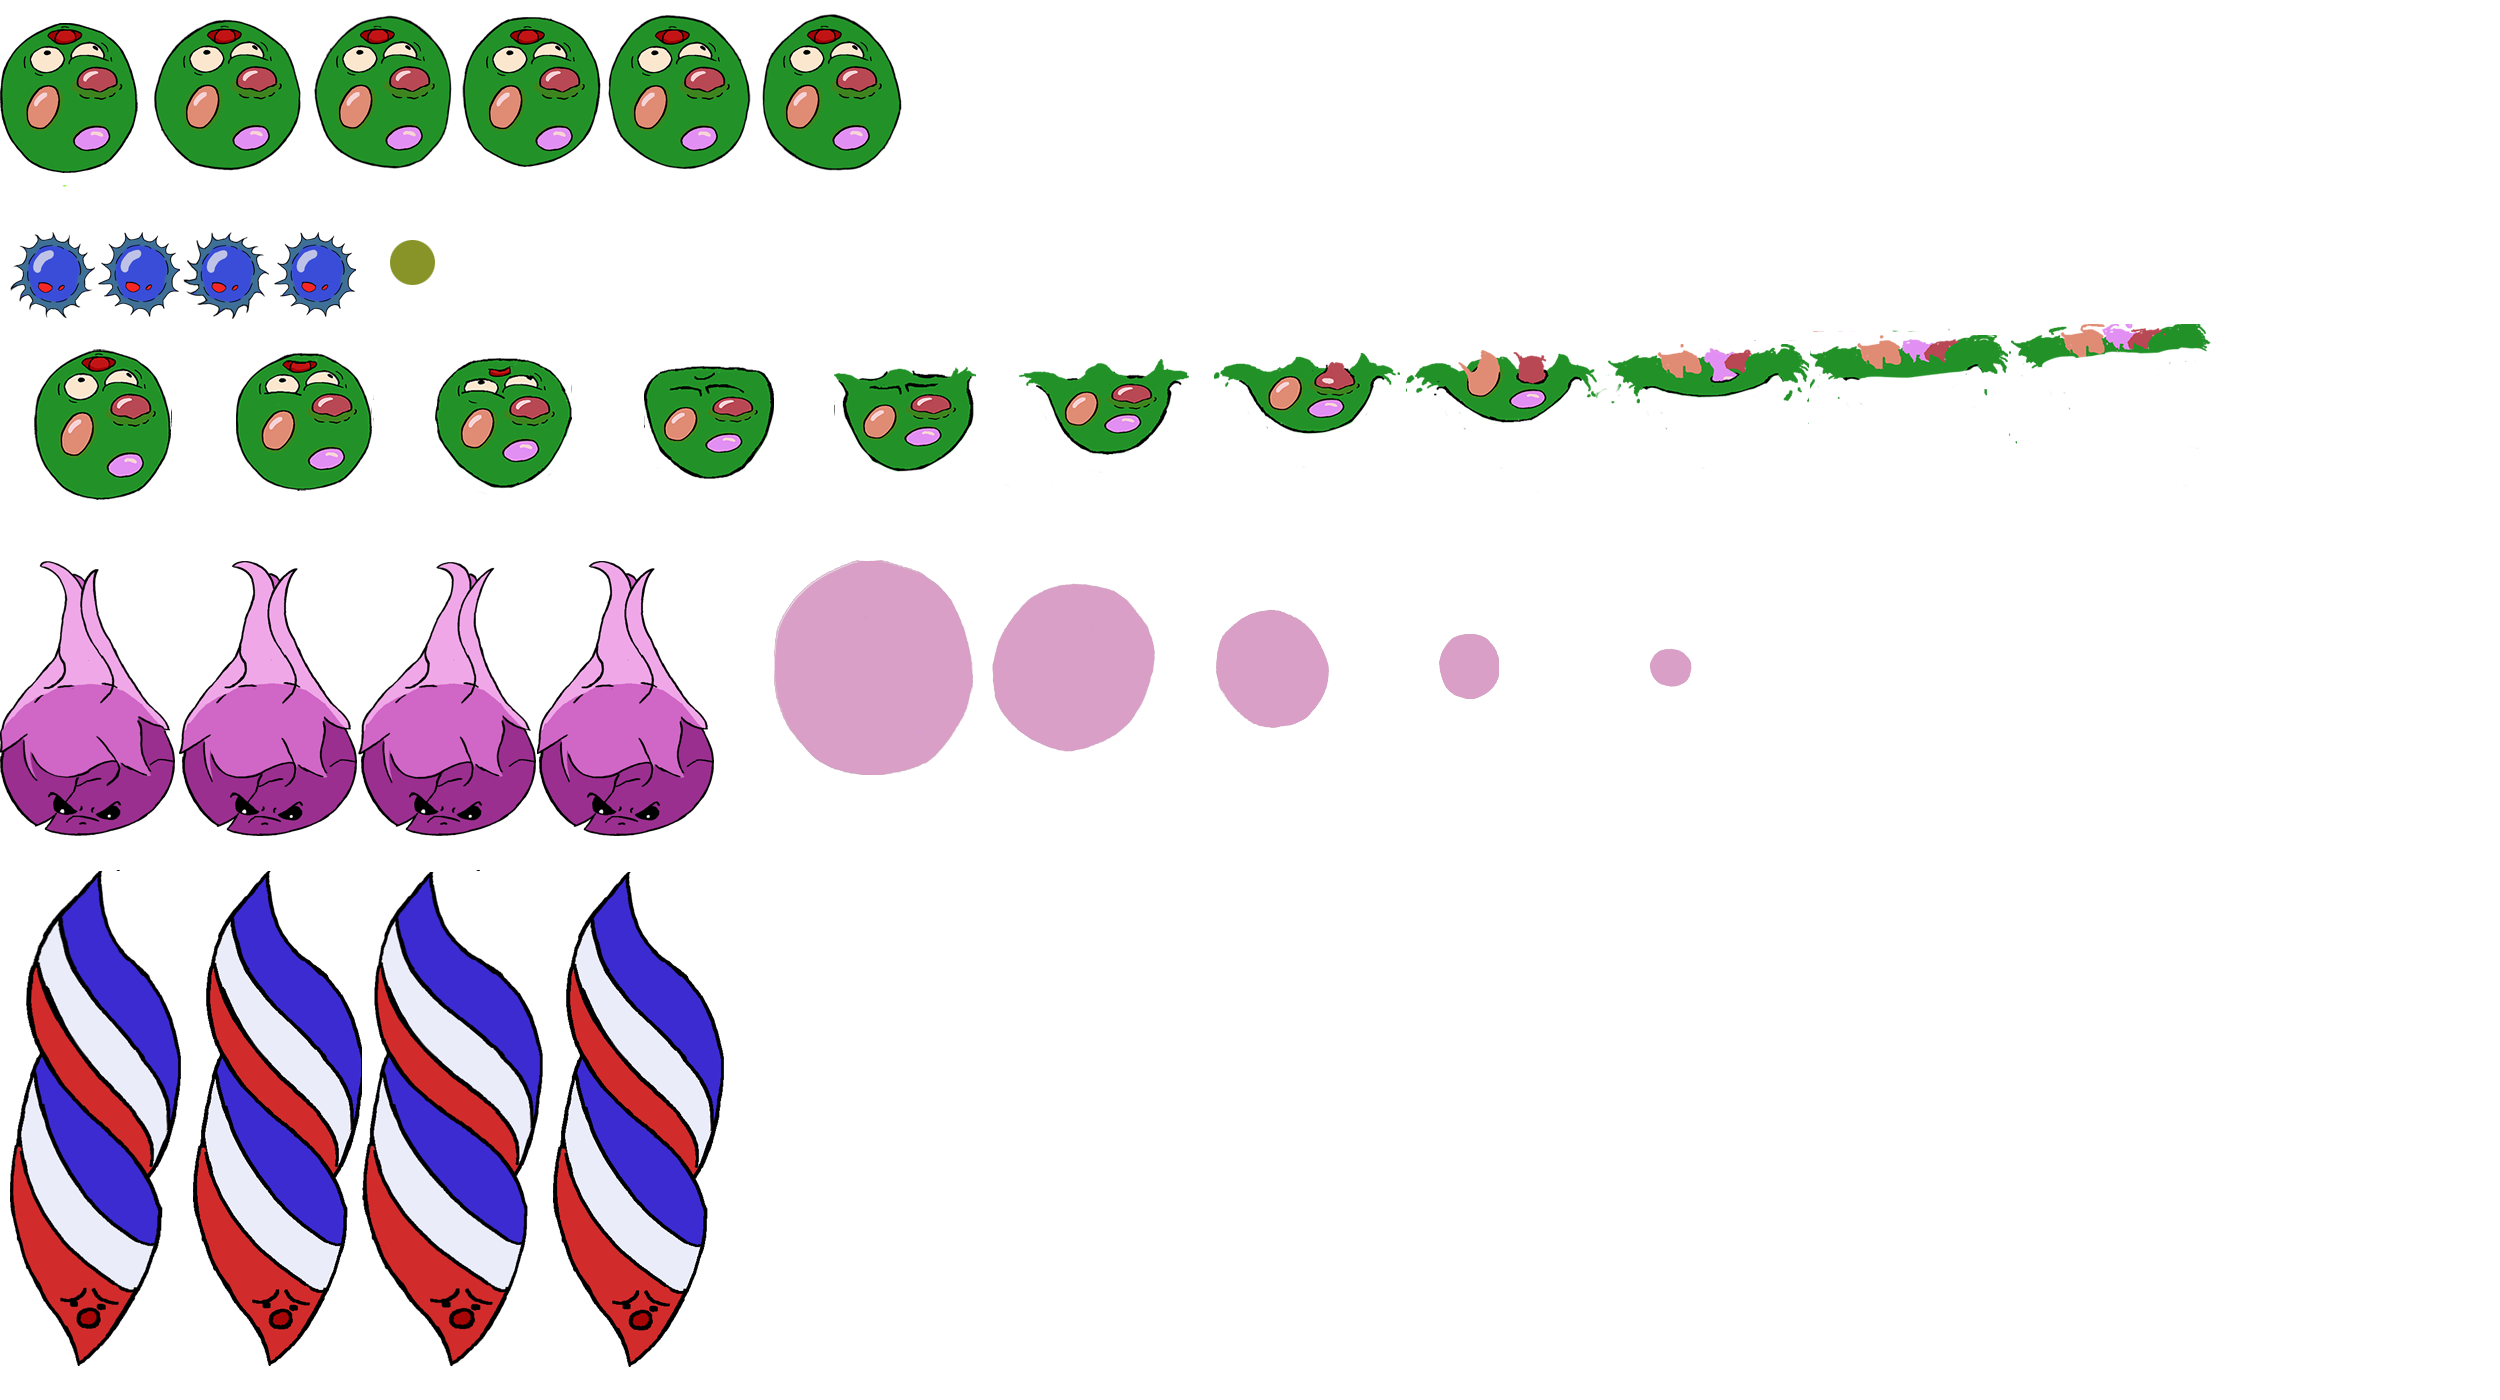
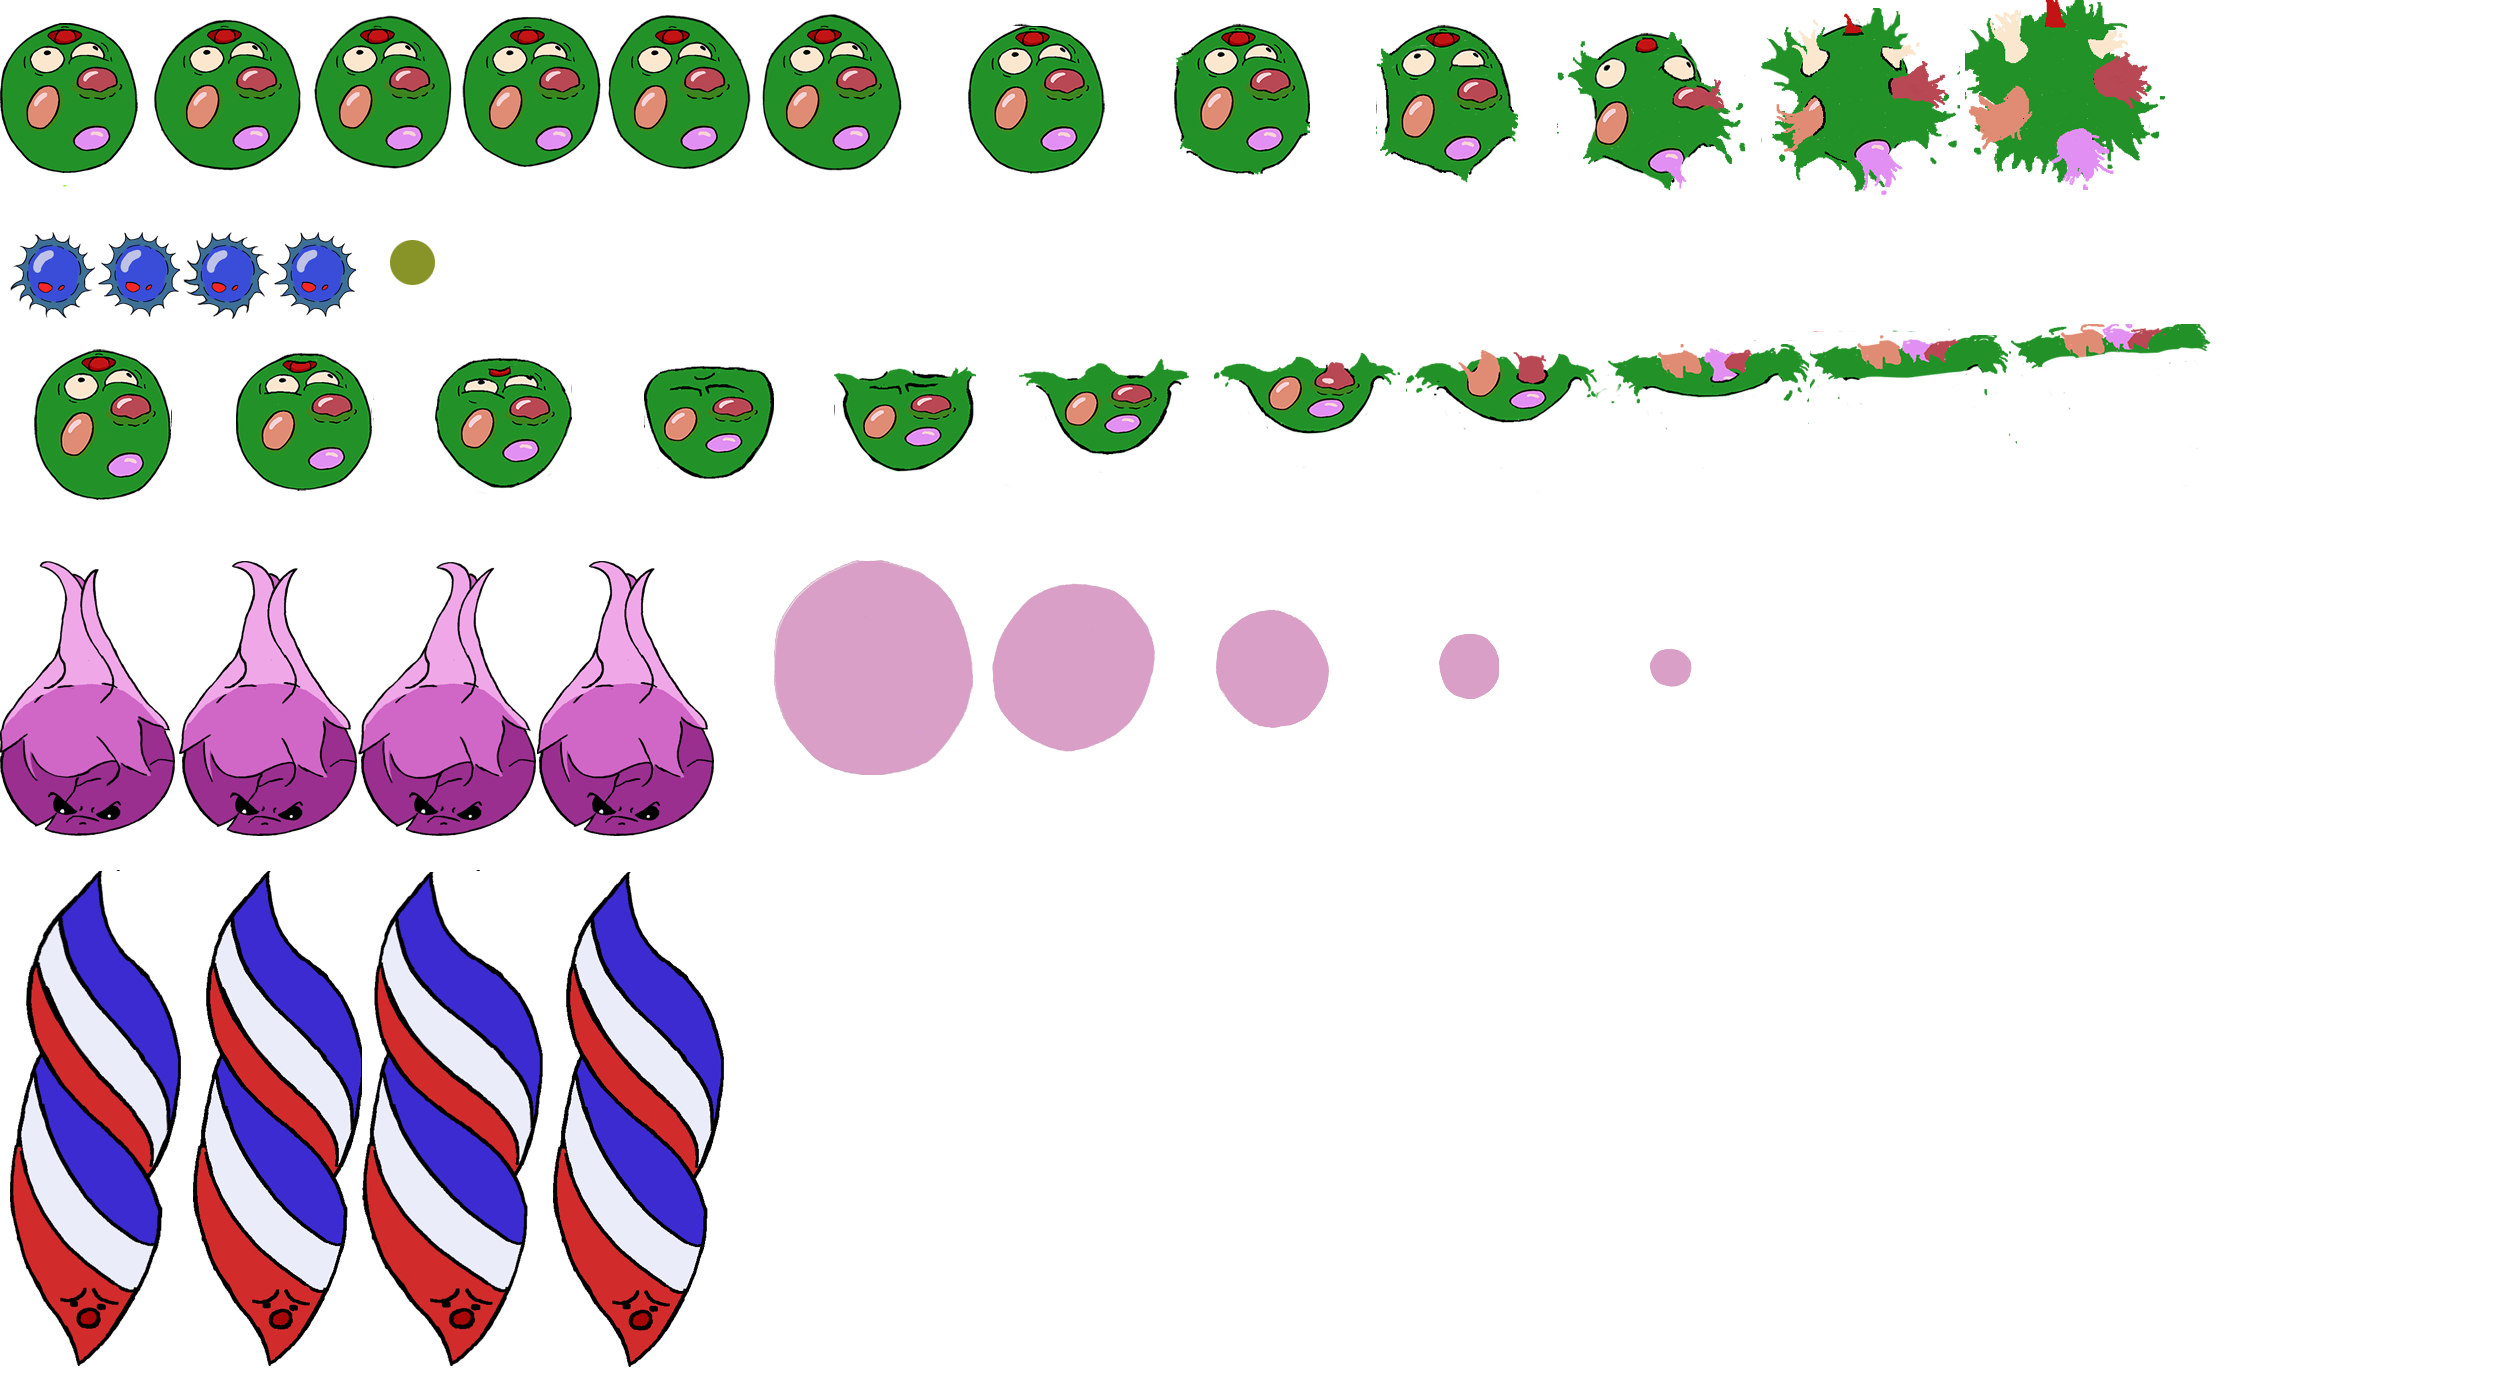
test dead

Changed region(s): [[0.3744, 0.0, 0.8736, 0.1536]]

diff --git a/Dont-smile/ModulePlayer.cpp b/Dont-smile/ModulePlayer.cpp
@@ -50,6 +50,17 @@ ModulePlayer::ModulePlayer()
 	splash.speed = 0.3f;
 
 	
+	dead.PushBack({ 935,0,205,191 });
+	dead.PushBack({ 1140,0,205,191 });
+	dead.PushBack({ 1345,0,205,191 });
+	dead.PushBack({ 1550,0,205,191 });
+	dead.PushBack({ 1755,0,205,191 });
+	dead.PushBack({ 1960,0,205,191 });
+	dead.speed = 1.0f;
+	dead.loop = false;
+	
+	
+	
 	estela.anim.PushBack({ 774,560,199,213 });
 	estela.anim.PushBack({ 973,560,199,213 });
 	estela.anim.PushBack({ 1172,560,199,213 });
@@ -408,7 +419,10 @@ void ModulePlayer::OnCollision(Collider* c1, Collider* c2)
 		}*/
 	case COLLIDER_ENEMY:
 		if (c1 == spaceship_collider && destroyed == false && App->fade->IsFading() == false && godmode==false ) {
+		
+			current_animation = &dead;
 			Dead();
+			
 		}
 
 	}
@@ -416,13 +430,13 @@ void ModulePlayer::OnCollision(Collider* c1, Collider* c2)
 
 void ModulePlayer::Dead() {
 
-	
+	/*
 	Red_Powerup_Lvl = 0;
 	M_Powerup_Lvl = 0;
 	Blue_Powerup_Lvl = 0;
 	sprintf_s(score_text, 10, "%8d", score);
 	sprintf_s(high_score_text, 10, "%7d", high_score);
-
+*/
 	//if (App->player2->IsEnabled()) {
 	//	App->player2->Red_Powerup_Lvl = 0;
 	//	App->player2->M_Powerup_Lvl = 0;
@@ -434,8 +448,9 @@ void ModulePlayer::Dead() {
 	destroyed = true;
 	
 	App->player2->player2 = false;
+	
+	
 	App->fade->FadeToBlack((Module*)App->level1, (Module*)App->intro);
-	//App->particles->AddParticle(dead_explosion, position.x, position.y, COLLIDER_EXPLOSION,0, "Assets/Audio/Fx_Player_Explosion.wav");
 	App->textures->Unload(graphics);
 		
 }

diff --git a/Dont-smile/ModulePlayer.h b/Dont-smile/ModulePlayer.h
@@ -58,6 +58,7 @@ public:
 
 	Animation idle;
 	Animation splash;
+	Animation dead;
 
 	
 	Particle bomb_explosion;
